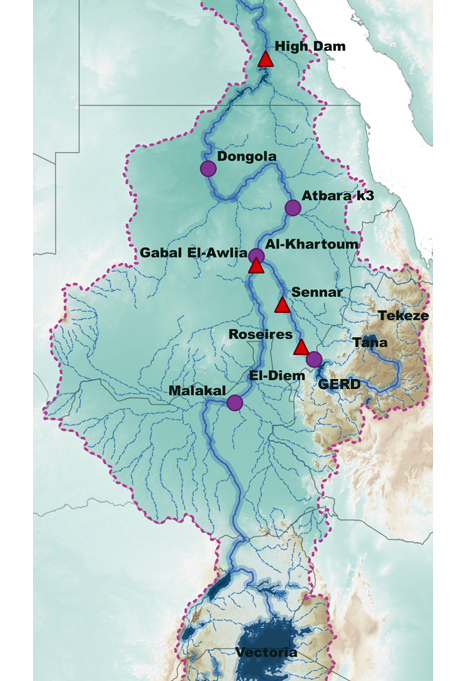
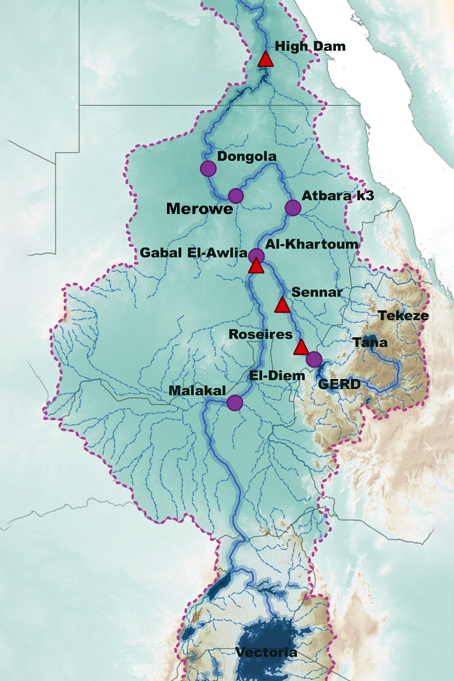
Add files via upload

diff --git a/js/chart.js b/js/chart.js
@@ -1,19 +1,20 @@
 (function init() {
     window.stData = {
-        had  :   { stationType : 1  ,  stationName : "High Aswan",     riverName : "Main Nile" },
-        mrw  :   { stationType : 1  ,  stationName : "Merowe",         riverName : "Main Nile" },
-        sen  :   { stationType : 1  ,  stationName : "Sennar",         riverName : "Blue Nile" },
-        ros  :   { stationType : 1  ,  stationName : "Rosiers",        riverName : "Blue Nile" },
-        gab  :   { stationType : 1  ,  stationName : "Gabal Al Awlia", riverName : "White Nile"},
-        don  :   { stationType : 2  ,  stationName : "Dongola",        riverName : "Main Nile" },
-        khr  :   { stationType : 2  ,  stationName : "Al Khartoom",    riverName : "Blue Nile" },
-        mlk  :   { stationType : 2  ,  stationName : "Malkal",         riverName : "White Nile"},
-        atb  :   { stationType : 2  ,  stationName : "Atbara",         riverName : "Main Nile" },
-        dim  :   { stationType : 2  ,  stationName : "El Diem",        riverName : "Blue Nile" },
-        tna  :   { stationType : 3  ,  stationName : "Tana",           riverName : "Blue Nile" , grealmID : "000402.10d", hywid : "tana"    , dhtid : "110"},
-        vct  :   { stationType : 3  ,  stationName : "Victoria",       riverName : "White Nile", grealmID : "000314.10d", hywid : "victoria", dhtid : "2"  },
-        tkz  :   { stationType : 3  ,  stationName : "Tekezé Dam",     riverName : "Atbara"    , grealmID : "001597.27b", hywid : ""        , dhtid : ""   },
-        grd  :   { stationType : 3  ,  stationName : "GERD Dam",       riverName : "Blue Nile" , grealmID : "101296.27b", hywid : "gerd"    , dhtid : ""   },
+        had  :   { stationType : 1  ,  stationName : "High Aswan",     riverName : "Main Nile" , mwriid : ["Damlakes", "بحيرة السد العالي"]      },
+     // tsk  :   { stationType : 1  ,  stationName : "Toshka",         riverName : "Main Nile" , mwriid : ["Toshka", "بحيرة منخفض توشكي 1"]      },
+        mrw  :   { stationType : 1  ,  stationName : "Merowe",         riverName : "Main Nile" , mwriid : ["Damlakes", "مروى"]                   },
+        sen  :   { stationType : 1  ,  stationName : "Sennar",         riverName : "Blue Nile"                                                   },
+        ros  :   { stationType : 1  ,  stationName : "Rosiers",        riverName : "Blue Nile" , mwriid : ["Damlakes", "الروصيرص"]               },
+        gab  :   { stationType : 1  ,  stationName : "Gabal Al Awlia", riverName : "White Nile"                                                  },
+        don  :   { stationType : 2  ,  stationName : "Dongola",        riverName : "Main Nile"                                                   },
+        khr  :   { stationType : 2  ,  stationName : "Al Khartoom",    riverName : "Blue Nile"                                                   },
+        mlk  :   { stationType : 2  ,  stationName : "Malkal",         riverName : "White Nile"                                                  },
+        atb  :   { stationType : 2  ,  stationName : "Atbara",         riverName : "Main Nile" , mwriid : ["Damlakes", "بحيرة سد عطبرة و ستيت"]  },
+        dim  :   { stationType : 2  ,  stationName : "El Diem",        riverName : "Blue Nile"                                                   },
+        tna  :   { stationType : 3  ,  stationName : "Tana",           riverName : "Blue Nile" , mwriid : ["Naturallakes", "بحيرة تانا"],        grealmID : "000402.10d", hywid : "tana"    , dhtid : "110"},
+        vct  :   { stationType : 3  ,  stationName : "Victoria",       riverName : "White Nile", mwriid : ["Naturallakes", "بحيرة فيكتوريا"],    grealmID : "000314.10d", hywid : "victoria", dhtid : "2"  },
+        tkz  :   { stationType : 3  ,  stationName : "Tekezé Dam",     riverName : "Atbara"    , mwriid : ["Damlakes", "بحيرة سد TK5"],          grealmID : "001597.27b", hywid : ""        , dhtid : ""   },
+        grd  :   { stationType : 3  ,  stationName : "GERD Dam",       riverName : "Blue Nile" , mwriid : ["Damlakes", "بحيرة سد النهضة"],       grealmID : "101296.27b", hywid : "gerd"    , dhtid : ""   },
     };
 
     window.keyName  = new URLSearchParams(document.location.search).get("kn");  // used as a key and for file name, one of ["had", "mrw", "don", "gab", "khr", "mlk", "ros", "sen", "atb", "dim", "tna", "vct", "tkz", "grd"]
@@ -23,6 +24,28 @@
     window.stationName = stData[keyName].stationName;  // used for chartTitle, one of ["High Aswan", "Dongola", "Gabal Al Awlia", "Al Khartoom", "Malkal", "Rosiers", "Sennar", "Atbara", "El Diem"]
     window.riverName   = stData[keyName].riverName;    // used for chartTitle, one of ["Blue Nile", "Main Nile", "White Nile"]
     // alert(stData.keyName.stationName);
+
+
+    window.defaultLegend = {
+        // title: {
+        //     text: 'Legend<br/><span style="font-size: 9px; color: #666; font-weight: normal">(Click item to hide)</span>',
+        //     style: { fontStyle: 'italic' }
+        // },
+        // width: '66%',
+        backgroundColor: '#c3d3d315',
+        // borderColor: "lightgrey",
+        // borderWidth: 1,
+        enabled:true,
+        floating: false,
+        align: 'center',
+        verticalAlign: 'bottom',
+        layout: 'horizontal',
+        alignColumns: true,
+        // showCheckbox : true,
+        // itemCheckboxStyle: {"width": "13px", "height": "13px", "position":"absolute"},
+        // itemMarginBottom: 5,
+        itemMarginTop: 3,
+    }
 
 })();
 
@@ -184,15 +207,15 @@ function dahitiParser(keyN) {
 function mwriParser(keyN) {
     
     // For reading mwri csv Data files.
-    // we formated MWRI data as Hydroweb data, so we use the hywid here too.
     // keyN is the keyName (current lake) Passed to the function again!
 
-    lakeID = stData[keyN].hywid;
+    fName = stData[keyN].mwriid[0] + ".csv";
+    lakeN = stData[keyN].mwriid[1];
     let parsedData = []
 
-    fName = "mwri_" + lakeID + ".csv";
-    dateLoc = 0;
-    valLoc = 1;
+    dateLoc = 1;
+    nameLoc = 2;
+    lvlLoc = 3;
 
     $.ajax({
         type: "GET",
@@ -200,14 +223,18 @@ function mwriParser(keyN) {
         async: false,
         dataType: "text",
         success: function (data) {
+
             textdata = String(data);
             lines = textdata.split('\n');
 
             for (i = 1; i < lines.length-1; i++) {
                 line = lines[i].split(',');
-                let date1 = new Date(line[dateLoc]).getTime();
-                let val1 = +line[valLoc];
-                parsedData.push([date1, val1]);
+
+                if (line[nameLoc] == lakeN) {
+                    let date1 = new Date(line[dateLoc].replace(" 00:00:00.000","")).getTime();
+                    let val1 = +line[lvlLoc];
+                    parsedData.push([date1, val1]);
+                }
             }
         },
     });    
@@ -465,22 +492,9 @@ function plotLvl() {
                         valueSuffix: " m"
                     },
 
-                    legend: {
-                        backgroundColor: '#c3d3d315',
-                        // borderColor: "lightgrey",
-                        // borderWidth: 1,
-                        enabled:true,
-                        floating: true,
-                        align: 'right',
-                        verticalAlign: 'top',
-                        layout: 'vertical',
-                        alignColumns: true,
-                        itemMarginBottom: 5,
-                    },
+                    legend: defaultLegend,
 
-                    credits: {
-                        enabled: false
-                    },
+                    credits: { enabled: false },
 
                 });
             }
@@ -640,25 +654,11 @@ function plotLvl() {
                         valueSuffix: " m"
                     },
 
-                    legend: {
-                        backgroundColor: '#c3d3d315',
-                        // borderColor: "lightgrey",
-                        // borderWidth: 1,
-                        enabled:true,
-                        floating: true,
-                        align: 'right',
-                        verticalAlign: 'top',
-                        layout: 'vertical',
-                        alignColumns: true,
-                        itemMarginBottom: 5,
-                    },
+                    legend: defaultLegend,
 
-                    credits: {
-                        enabled: false
-                    },
+                    credits: { enabled: false },
 
                 });
-
             }
 
             else if (stationType == '3') {
@@ -707,10 +707,10 @@ function plotLvl() {
                             type: 'spline',
                             connectNulls: true,
                             visible: true,
-                            marker: {enabled: true, symbol: 'circle', radius:2},
+                            marker: {enabled: true, symbol: 'circle', radius:1},
                             // dashStyle: 'Dot',
-                            dashStyle: 'LongDash',
-                            lineWidth: 1,
+                            // dashStyle: 'LongDash',
+                            // lineWidth: 1,
                             color: '#7cb5ec',
                             zIndex: 1,
                             states: {hover: {lineWidthPlus: 0}, inactive: {opacity: 1}}
@@ -736,10 +736,10 @@ function plotLvl() {
                             data: hydrowebParser(keyName),
                             type: 'spline',
                             connectNulls: true,
-                            dashStyle: 'LongDash',
+                            // dashStyle: 'LongDash',
                             visible: true,
-                            marker: {enabled: true, symbol: 'circle', radius:2},
-                            lineWidth: 1,
+                            marker: {enabled: true, symbol: 'circle', radius:1},
+                            // lineWidth: 1,
                             color: 'lightgreen',
                             // color: Highcharts.getOptions().colors[0],
                             zIndex: 0,
@@ -752,10 +752,10 @@ function plotLvl() {
                             data: dahitiParser(keyName),
                             type: 'spline',
                             connectNulls: true,
-                            dashStyle: 'LongDash',
+                            // dashStyle: 'LongDash',
                             visible: true,
-                            marker: {enabled: true, symbol: 'circle', radius:2},
-                            lineWidth: 1,
+                            marker: {enabled: true, symbol: 'circle', radius:1},
+                            // lineWidth: 1,
                             color: 'grey',
                             // color: Highcharts.getOptions().colors[0],
                             zIndex: 0,
@@ -764,14 +764,14 @@ function plotLvl() {
                         },
                         
                         {
-                            name: 'MWRI (IDSSD...)',
+                            name: 'MWRI (DEM - by IDSSD)',
                             data: mwriParser(keyName),
                             type: 'spline',
                             connectNulls: true,
-                            dashStyle: 'LongDash',
+                            // dashStyle: 'LongDash',
                             visible: true,
-                            marker: {enabled: true, symbol: 'circle', radius:2},
-                            lineWidth: 1,
+                            marker: {enabled: true, symbol: 'circle', radius:1},
+                            // lineWidth: 1,
                             color: 'orange',
                             // color: Highcharts.getOptions().colors[0],
                             zIndex: 0,
@@ -837,22 +837,9 @@ function plotLvl() {
                         valueSuffix: " m"
                     },
 
-                    legend: {
-                        backgroundColor: '#c3d3d315',
-                        // borderColor: "lightgrey",
-                        // borderWidth: 1,
-                        enabled:true,
-                        floating: true,
-                        align: 'right',
-                        verticalAlign: 'top',
-                        layout: 'vertical',
-                        alignColumns: true,
-                        itemMarginBottom: 5,
-                    },
+                    legend: defaultLegend,
 
-                    credits: {
-                        enabled: false
-                    },
+                    credits: { enabled: false },
 
                 });
 
@@ -1000,24 +987,11 @@ function plotDis() {
                         valueSuffix: " m3/sec"
                     },
 
-                    legend: {
-                        backgroundColor: '#c3d3d315',
-                        // borderColor: "lightgrey",
-                        // borderWidth: 1,
-                        enabled:true,
-                        floating: true,
-                        align: 'right',
-                        verticalAlign: 'top',
-                        layout: 'vertical',
-                        alignColumns: true,
-                        itemMarginBottom: 5,
-                    },
-                    credits: {
-                        enabled: false
-                    },
+                    legend: defaultLegend,
+
+                    credits: { enabled: false },
 
                 });
-
             };
 
         },
@@ -1173,22 +1147,10 @@ function plotRle() {
                         valueDecimals: 2,
                         valueSuffix: " m3/sec"
                     },
-                    legend: {
-                        backgroundColor: '#c3d3d315',
-                        // borderColor: "lightgrey",
-                        // borderWidth: 1,
-                        enabled:true,
-                        floating: true,
-                        align: 'right',
-                        verticalAlign: 'top',
-                        layout: 'vertical',
-                        alignColumns: true,
-                        itemMarginBottom: 5,
-                    },
 
-                    credits: {
-                        enabled: false
-                    },
+                    legend: defaultLegend,
+
+                    credits: { enabled: false },
 
                 });
             };

diff --git a/index.html b/index.html
@@ -46,6 +46,7 @@
                 <a xlink:href="#atb" onclick="gotoSlide('atb_pg')" xlink:title="Atbara">         <image id="atb" class="hidd" xlink:href="./img/Basin.jpg" width="100%" clip-path="polygon(85% 27%, 63% 27%, 62% 32%, 84% 32%)"                                                                        /> </a>
                 <a xlink:href="#khr" onclick="gotoSlide('khr_pg')" xlink:title="Al Khartoom">    <image id="khr" class="hidd" xlink:href="./img/Basin.jpg" width="100%" clip-path="polygon(80% 35%, 59% 35%, 58% 37%, 57% 36%, 55% 36%, 55% 38%, 56% 39%, 57% 38%, 58% 39%, 61% 38%, 61% 37%, 80% 37%)"/> </a>
                 <a xlink:href="#gab" onclick="gotoSlide('gab_pg')" xlink:title="Gabal Al Awlia"> <image id="gab" class="hidd" xlink:href="./img/Basin.jpg" width="100%" clip-path="polygon(59% 40%, 57% 38%, 56% 39%, 55% 38%, 55% 36%, 31% 36%, 31% 39%, 55% 38%, 55% 39%, 54% 41%, 60% 41%)"         /> </a>
+                <a xlink:href="#mrw" onclick="gotoSlide('mrw_pg')" xlink:title="Merowe">         <image id="mrw" class="hidd" xlink:href="./img/Basin.jpg" width="100%" clip-path="polygon(57% 27%, 35% 27%, 35% 32%, 57% 32%)"                                                                        /> </a>
                 <a xlink:href="#sen" onclick="gotoSlide('sen_pg')" xlink:title="Sennar">         <image id="sen" class="hidd" xlink:href="./img/Basin.jpg" width="100%" clip-path="polygon(77% 42%, 61% 42%, 60% 47%, 77% 46%)"                                                                        /> </a>
                 <a xlink:href="#ros" onclick="gotoSlide('ros_pg')" xlink:title="Rosiers">        <image id="ros" class="hidd" xlink:href="./img/Basin.jpg" width="100%" clip-path="polygon(67% 48%, 50% 48%, 50% 51%, 67% 52%, 69% 51%)"                                                               /> </a>
                 <a xlink:href="#dim" onclick="gotoSlide('dim_pg')" xlink:title="El Diem">        <image id="dim" class="hidd" xlink:href="./img/Basin.jpg" width="100%" clip-path="polygon(53% 53%, 54% 57%, 68% 57%, 73% 53%, 70% 50%, 67% 53%)"                                                      /> </a>
@@ -65,6 +66,7 @@
                 <iframe id="atb_pg" class="presFrame" src="./chart.html?kn=atb" scrolling="no"></iframe>
                 <iframe id="khr_pg" class="presFrame" src="./chart.html?kn=khr" scrolling="no"></iframe>
                 <iframe id="gab_pg" class="presFrame" src="./chart.html?kn=gab" scrolling="no"></iframe>
+                <iframe id="mrw_pg" class="presFrame" src="./chart.html?kn=mrw" scrolling="no"></iframe>
                 <iframe id="sen_pg" class="presFrame" src="./chart.html?kn=sen" scrolling="no"></iframe>
                 <iframe id="ros_pg" class="presFrame" src="./chart.html?kn=ros" scrolling="no"></iframe>
                 <iframe id="dim_pg" class="presFrame" src="./chart.html?kn=dim" scrolling="no"></iframe>

diff --git a/js/main.js b/js/main.js
@@ -45,6 +45,10 @@ function gotoSlide(id) { // i as 'had_pg'
         window.location.hash = ''
         window.location = '#' + id.split('_')[0];
     }
+
+    // document.getElementById(id).contentWindow.onload = "plotLvl()" ;
+    // document.getElementById(id).contentWindow.document.body.plotLvl ;
+
 }
 
 
